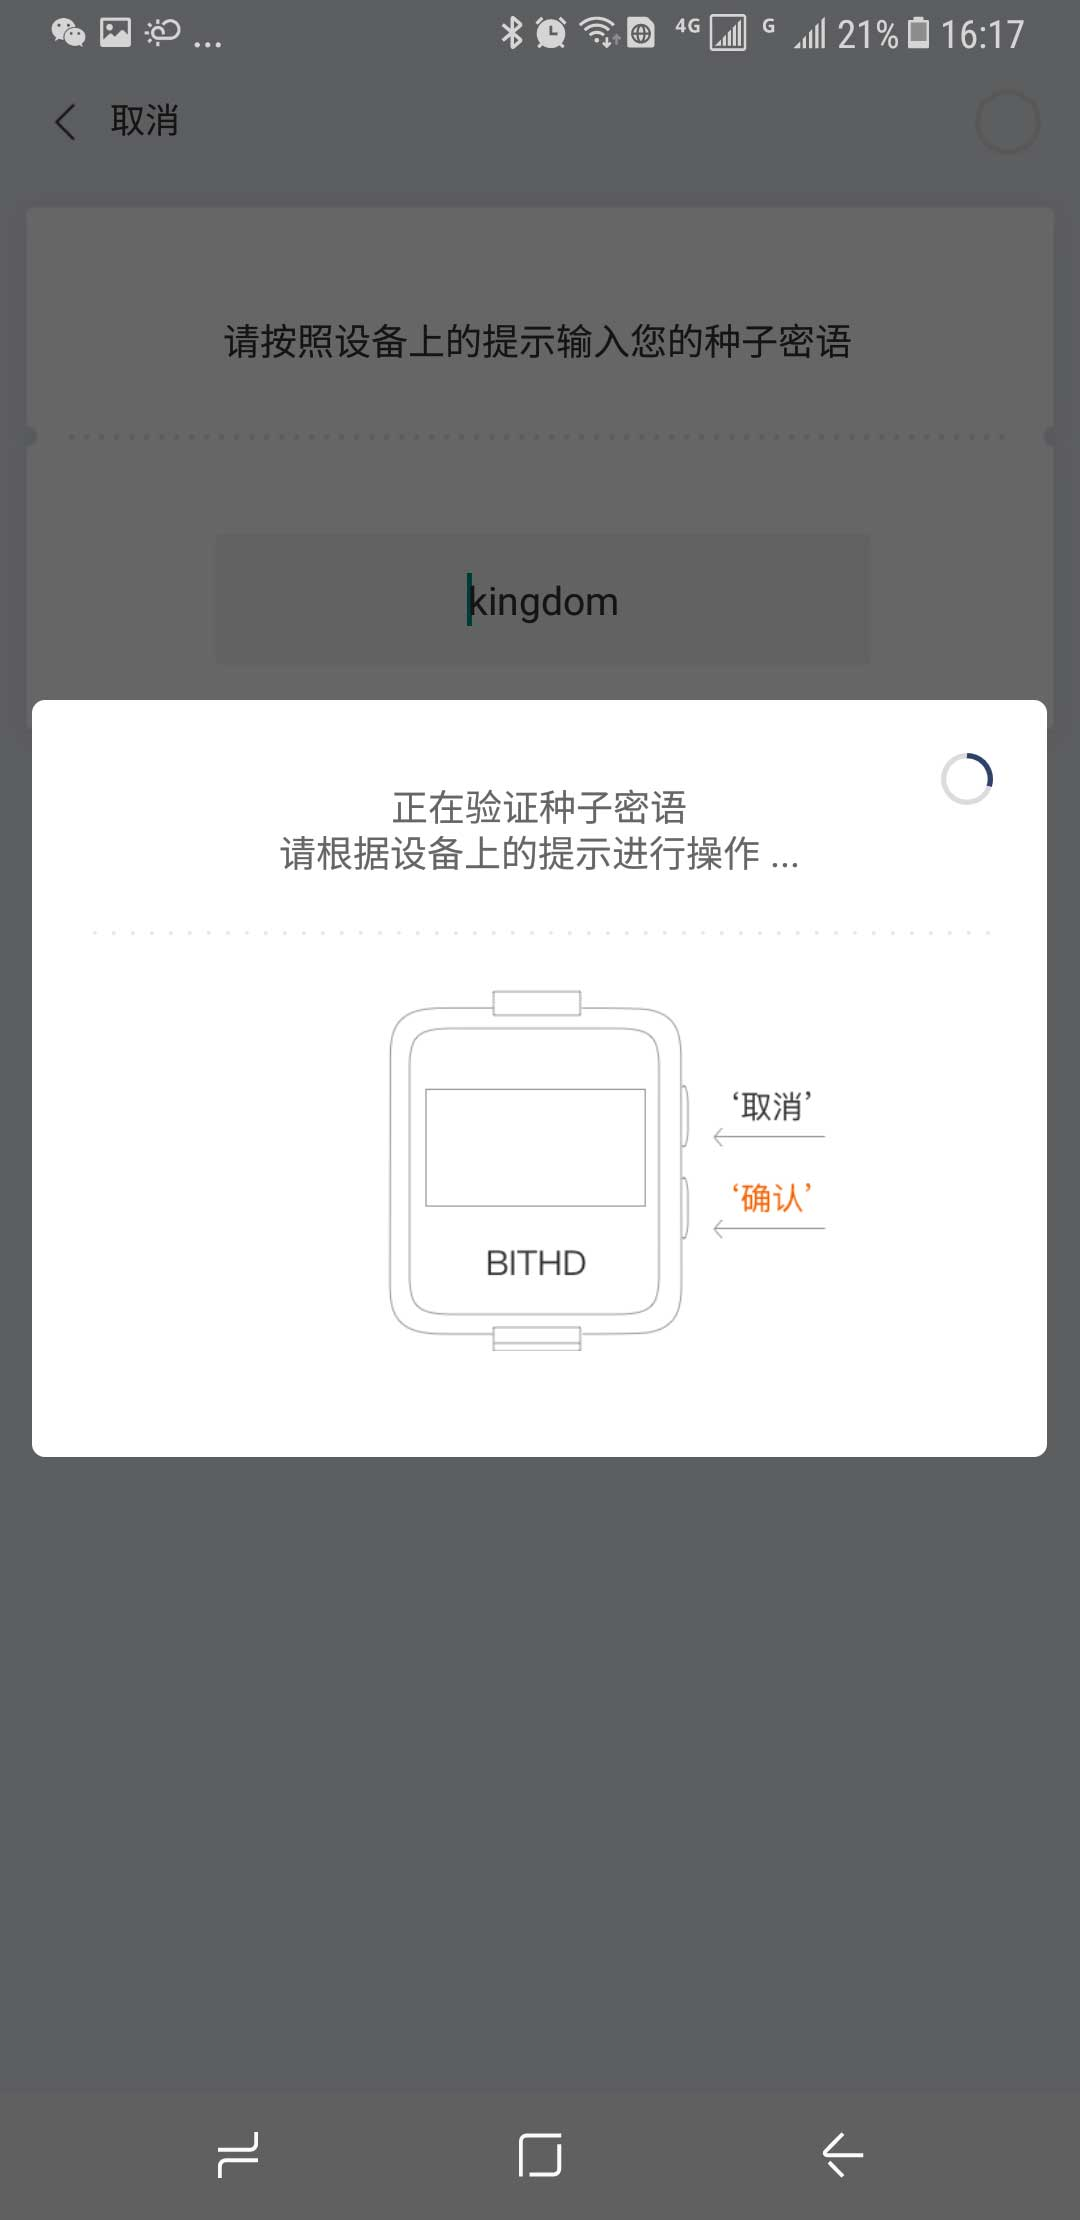
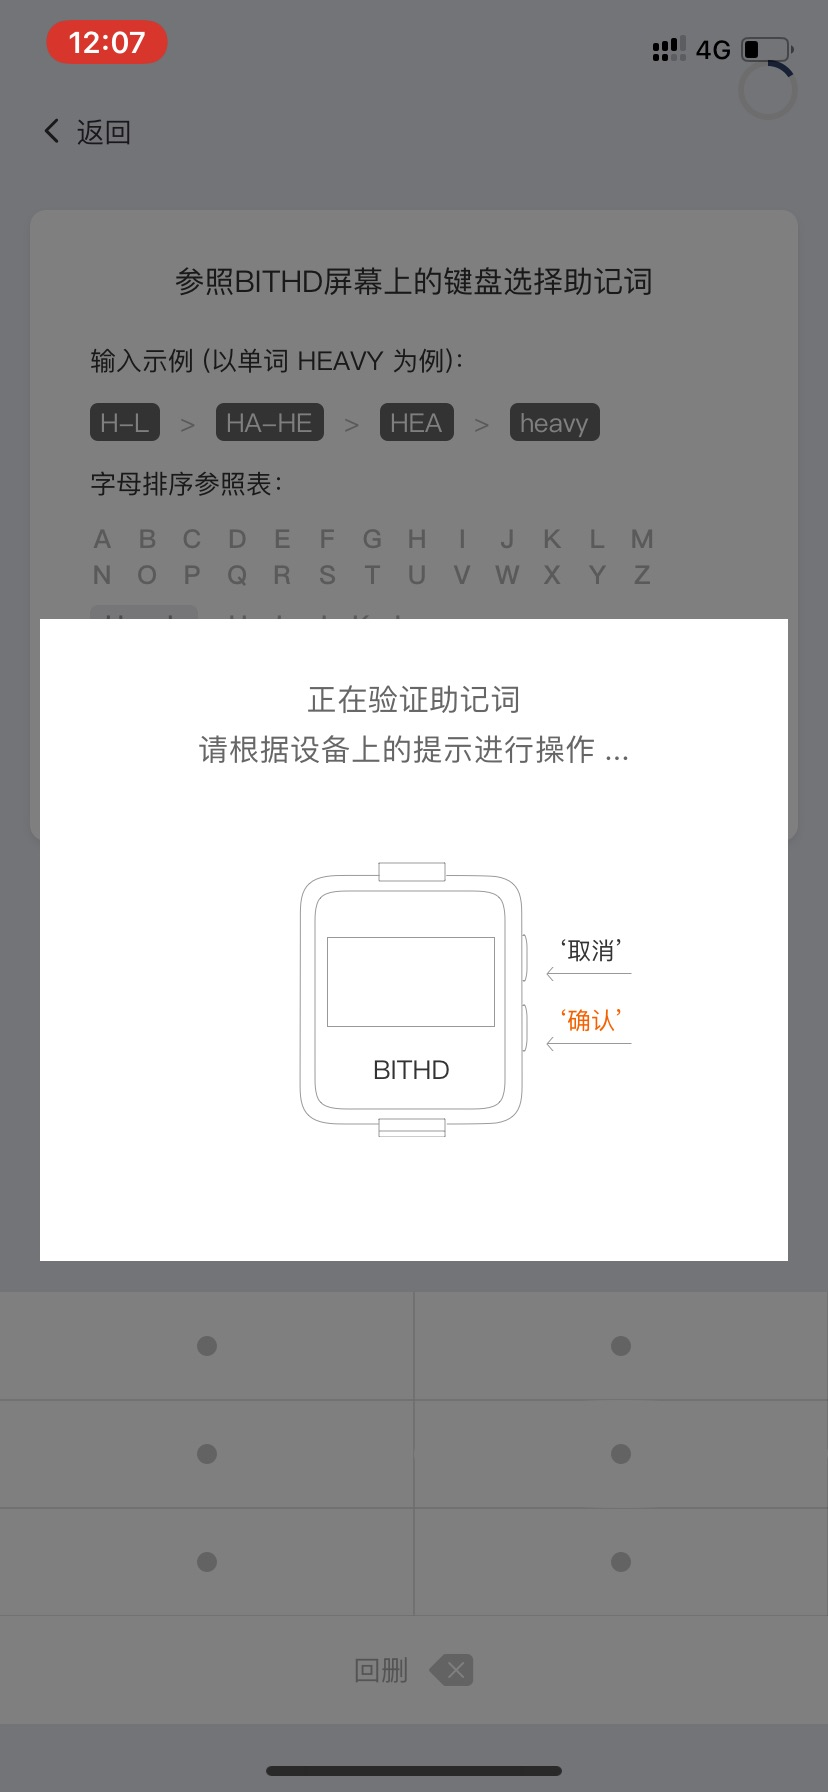
modify seed recovery docs

diff --git a/bithd/seedrecovery.rst b/bithd/seedrecovery.rst
@@ -25,95 +25,133 @@ BITHD钱包
 
 
 
-BITHD 种子恢复
+BITHD 助记词恢复
 ------------------------
 
-在验证、恢复 BITHD 助记词时， BITHD会引导您在手机端随机输入乱序的助记词与干扰词，这样可有效的保护助记词安全。
 
-如果您有更高的安全性要求，我们建议您在手机断开网络的状态下进行操作，并且一组助记词仅在一部手机设备验证、恢复一次，避免多次验证、恢复。
+1、打开比特派 App。在我 - 比特护盾管理 - 找到您的 BITHD 设备。
 
-1、打开比特派App 或者 BITHD App 。账号管理 - 找到您的 BITHD 设备。
-
-2、在密语页面中，选择 "我有种子，直接恢复"。
+2、在初始化页面中，选择 "恢复旧钱包"。
 
 3､ 进入 "欢迎来到 BITHD "页面中为 BITHD 命名。
 
-4、开始进行恢复种子，首先设置 PIN 码。手机键盘上的点位对应 BITHD 屏上的数字，输入完之后再点确认。进入 请确认 PIN 码页面，再次输入上一次的 PIN 码。
+4、开始进行恢复助记词，首先设置 PIN 码。手机键盘上的点位对应 BITHD 屏上的数字，输入完之后再点确认。进入 请确认 PIN 码页面，再次输入上一次的 PIN 码。
 
-5、进入"请按照设备上的提示输入您的助记词"页入。输入 BITHD 设备 提示的的单词。总共需要您输入24次，12个密语和12个干扰单词。
+5、进入"参照BITHD屏幕上的键盘选择助记词"。选择需要在 BITHD 设备上恢复的助记词。
 
-提示类似于以下两条语句：
+Please enter the 1st word of your mnemonic（请输入您抄写种子的第1个助记词）；
+
+一、以单词“HEAVY”为例
 
 
+a.首先在硬件端找到首字母"H"的位置，在手机键盘的对应位置点击
 
-.. image:: ../img/bithd_seeds.jpg
+
+.. image:: ../img/recovery_heavy1.jpg
     :width: 250px
     :height: 320px
     :scale: 100%
     :align: center
 
 
-Please enter the 4th word of your mnemonic（请输入您抄写种子的第四个助记词）；
+b.此时硬件端屏幕将会进入第二个字母"E"的选择页面，找到"HE"所在键位
 
 
-.. image:: ../img/bithd_words.jpg
+.. image:: ../img/recovery_heavy2.jpg
     :width: 250px
     :height: 320px
     :scale: 100%
     :align: center
 
 
+c.此时设备屏幕会进入到第三个字母的选择界面，找到我们需要的"HEA"的位置
 
-Please enter the word viotory on your mobile phone （将viotory输入到手机输入框）；
+
+
+.. image:: ../img/recovery_heavy3.jpg
+    :width: 250px
+    :height: 320px
+    :scale: 100%
+    :align: center
+
+
+d.此时设备屏幕已经定位到了我们想要输入的"HEAVY"单词的位置，记住它的键位，点击"HEAVY"所对应的位置即可
+
+
+.. image:: ../img/recovery_heavy4.jpg
+    :width: 250px
+    :height: 320px
+    :scale: 100%
+    :align: center
+
+
+5、输入完之后，APP 会提示您 "正在恢复账号，请根据设备上的提示进行操作.."。在比特护盾上按一下确认键即可。
+
+
+.. image:: ../img/seed_recovery.jpg
+    :width: 250px
+    :height: 500px
+    :scale: 100%
+    :align: center
 
 
 备注：比特护盾在恢复过程中不要停顿，请根据提示输入。
 
 
 
-
-
-BITHD 验证种子
+BITHD 验证助记词
 ------------------------------
-
-在验证、恢复 BITHD 助记词时， BITHD会引导您在手机端随机输入乱序的助记词与干扰词，这样可有效的保护助记词安全。
-
-如果您有更高的安全性要求，我们建议您在手机断开网络的状态下进行操作，并且一组助记词仅在一部手机设备验证、恢复一次，避免多次验证、恢复。
 
 1、通过 Bitpie APP 连接比特护盾(BITHD)。
 
-
-2、我的 - BITHD 设置 - 验证种子（验证种子的过程中不要停顿，请根据比特护盾上的提示进行输入，总共需要您输入24次，12个密语和12个干扰单词）。
-
+2、我的 - BITHD 设置 - 验证助记词（验证助记词的过程中不要超时，请根据比特护盾上的提示进行输入）。
 
 3、输入 PIN 码。
 
-
 4、在种子验证界面过程中比特护盾手表中会提示以下语句
 
+Please enter the 1st word of your mnemonic（请输入您抄写种子的第1个助记词）；
 
-.. image:: ../img/bithd_seeds.jpg
+一、以单词“HEAVY”为例
+
+a.首先在硬件端找到首字母“H”的位置，在手机键盘的对应位置点击
+
+
+
+.. image:: ../img/recovery_heavy1.jpg
     :width: 250px
     :height: 320px
     :scale: 100%
     :align: center
 
-Please enter the 4th word of your mnemonic（请输入您抄写种子的第四个助记词）；
 
+b.此时硬件端屏幕将会进入第二个字母"E"的选择页面，找到"HE"所在键位
 
-.. image:: ../img/bithd_words.jpg
+.. image:: ../img/recovery_heavy2.jpg
     :width: 250px
     :height: 320px
     :scale: 100%
     :align: center
 
+c.此时设备屏幕会进入到第三个字母的选择界面，找到我们需要的"HEA"的位置
 
-Please enter the word viotory on your mobile phone （将viotory输入到手机输入框）；
+.. image:: ../img/recovery_heavy3.jpg
+    :width: 250px
+    :height: 320px
+    :scale: 100%
+    :align: center
 
+d.此时设备屏幕已经定位到了我们想要输入的"HEAVY"单词的位置，记住它的键位，点击"HEAVY"所对应的位置即可
+
+
+.. image:: ../img/recovery_heavy4.jpg
+    :width: 250px
+    :height: 320px
+    :scale: 100%
+    :align: center
 
 
 5、输入完之后，APP 会提示您 "正在验证助记词，请根据设备上的提示进行操作.."。在比特护盾上按一下确认键即可。
-
 
 .. image:: ../img/seedvalidation.jpg
     :width: 250px
